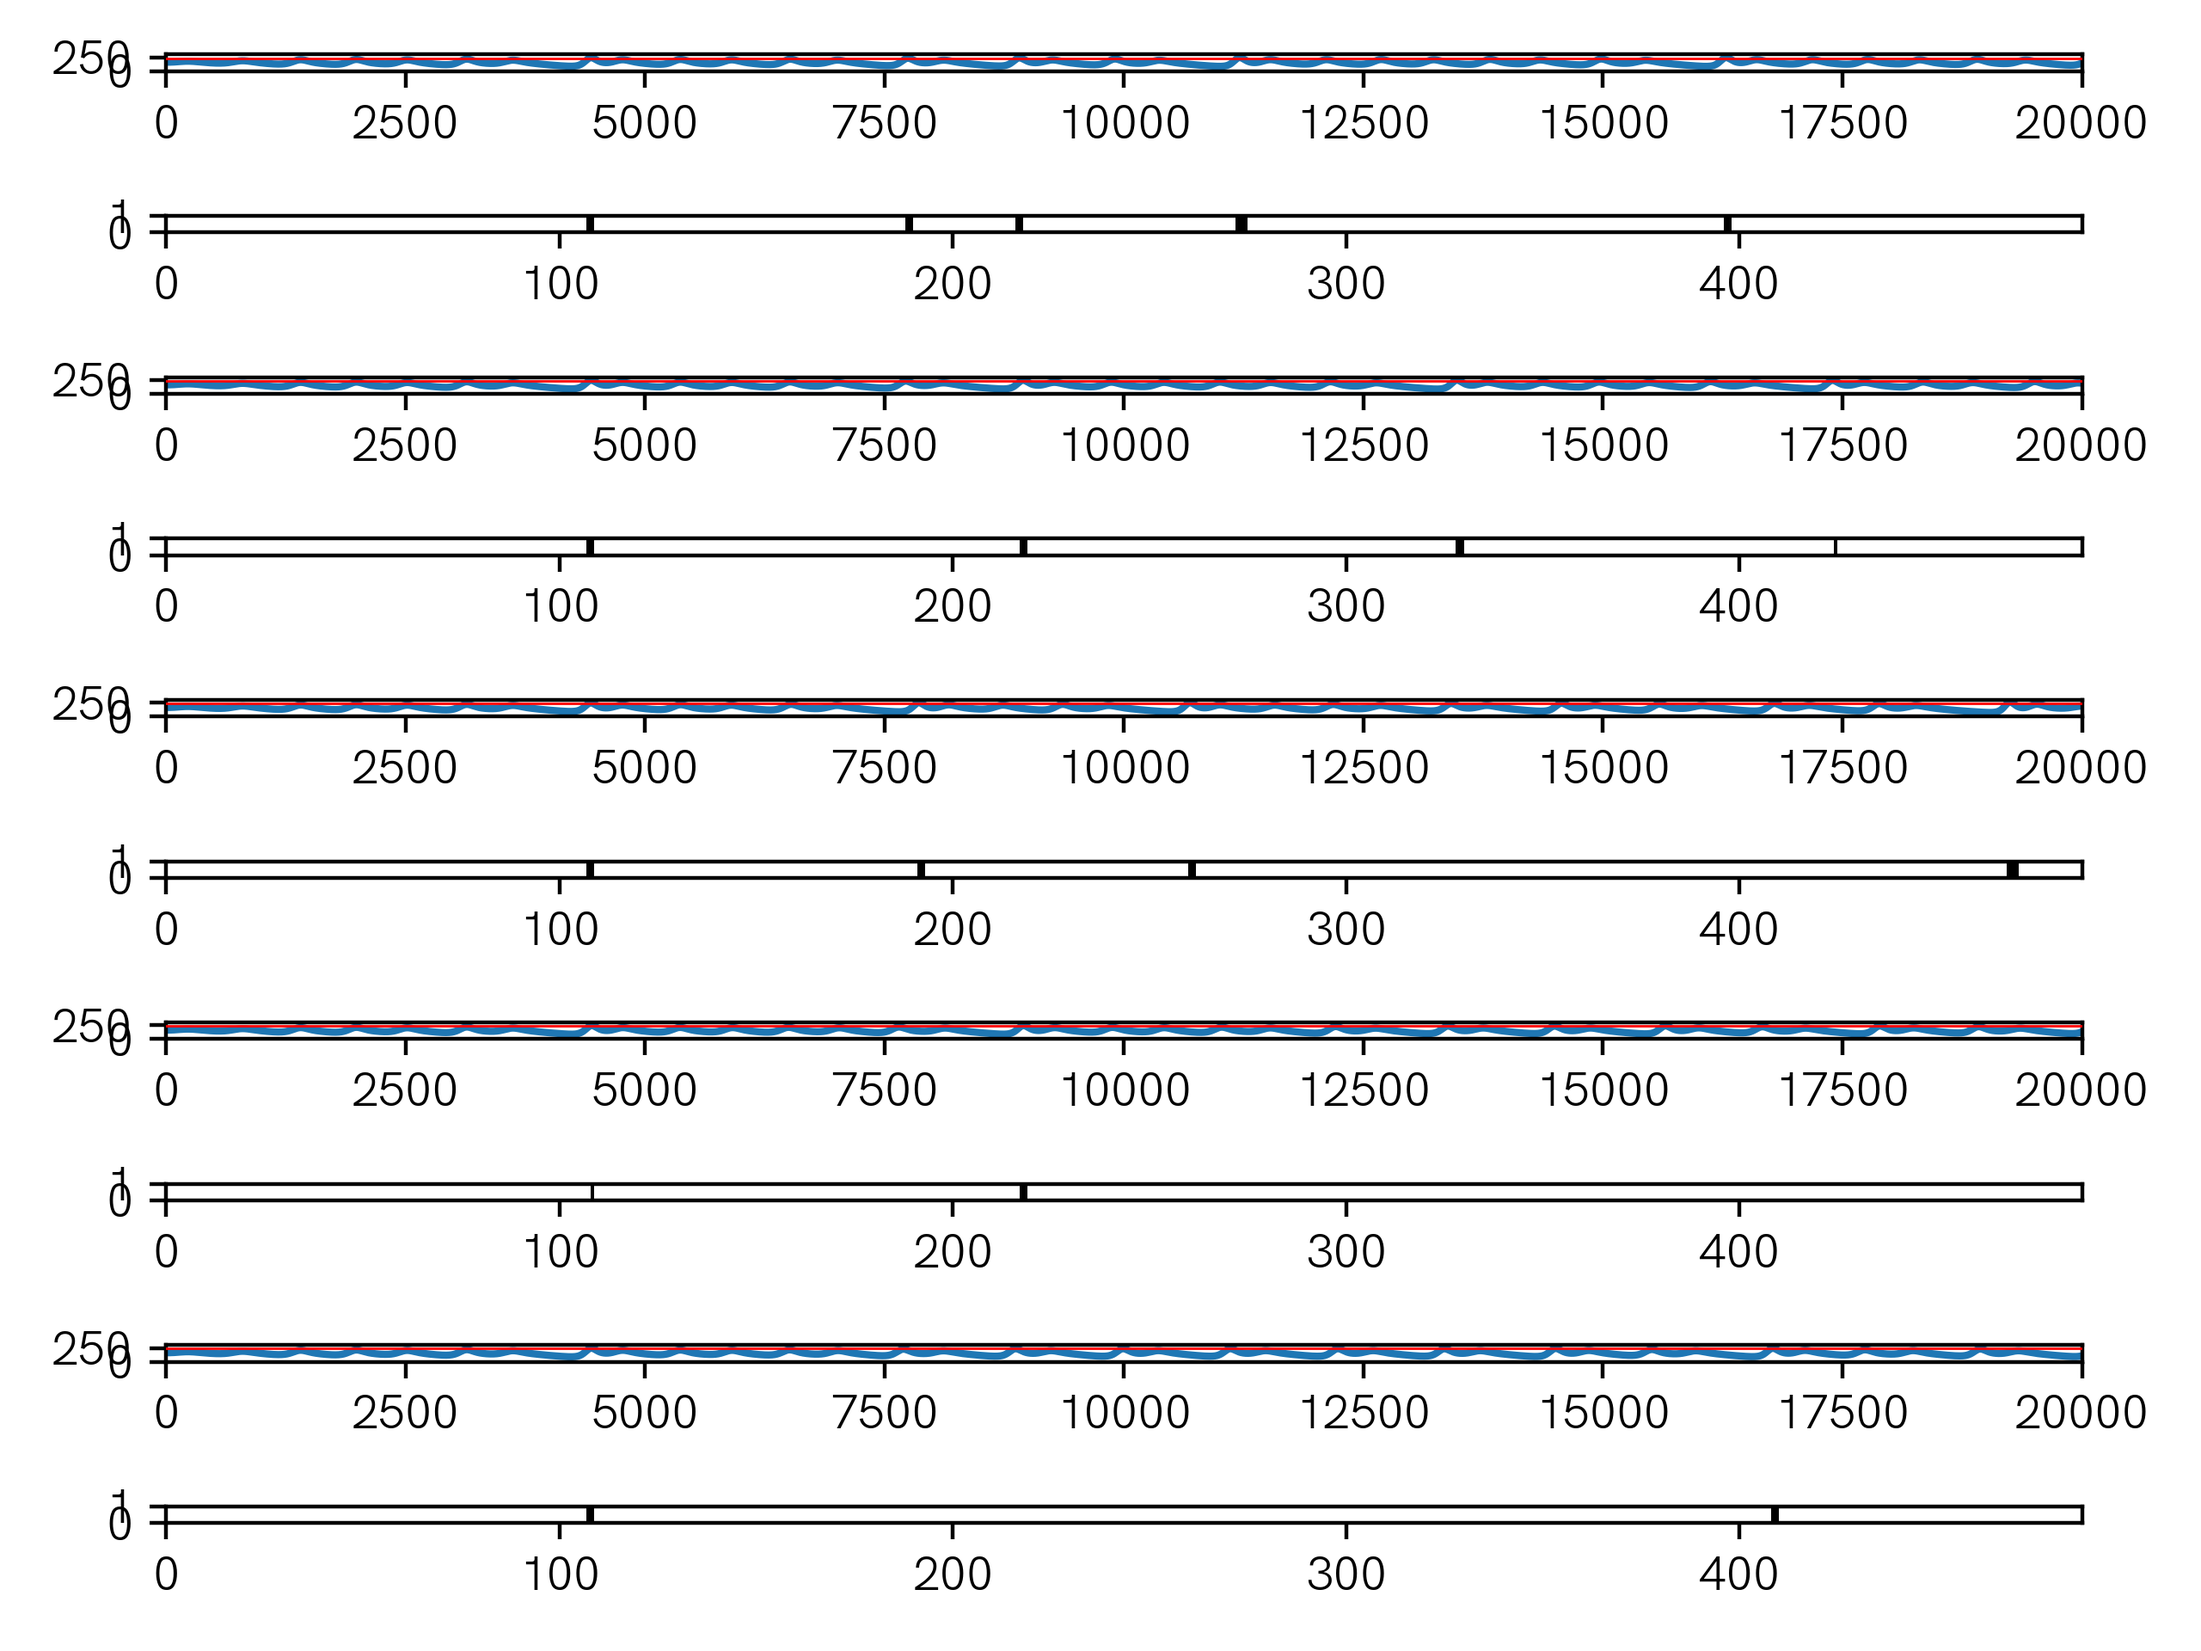
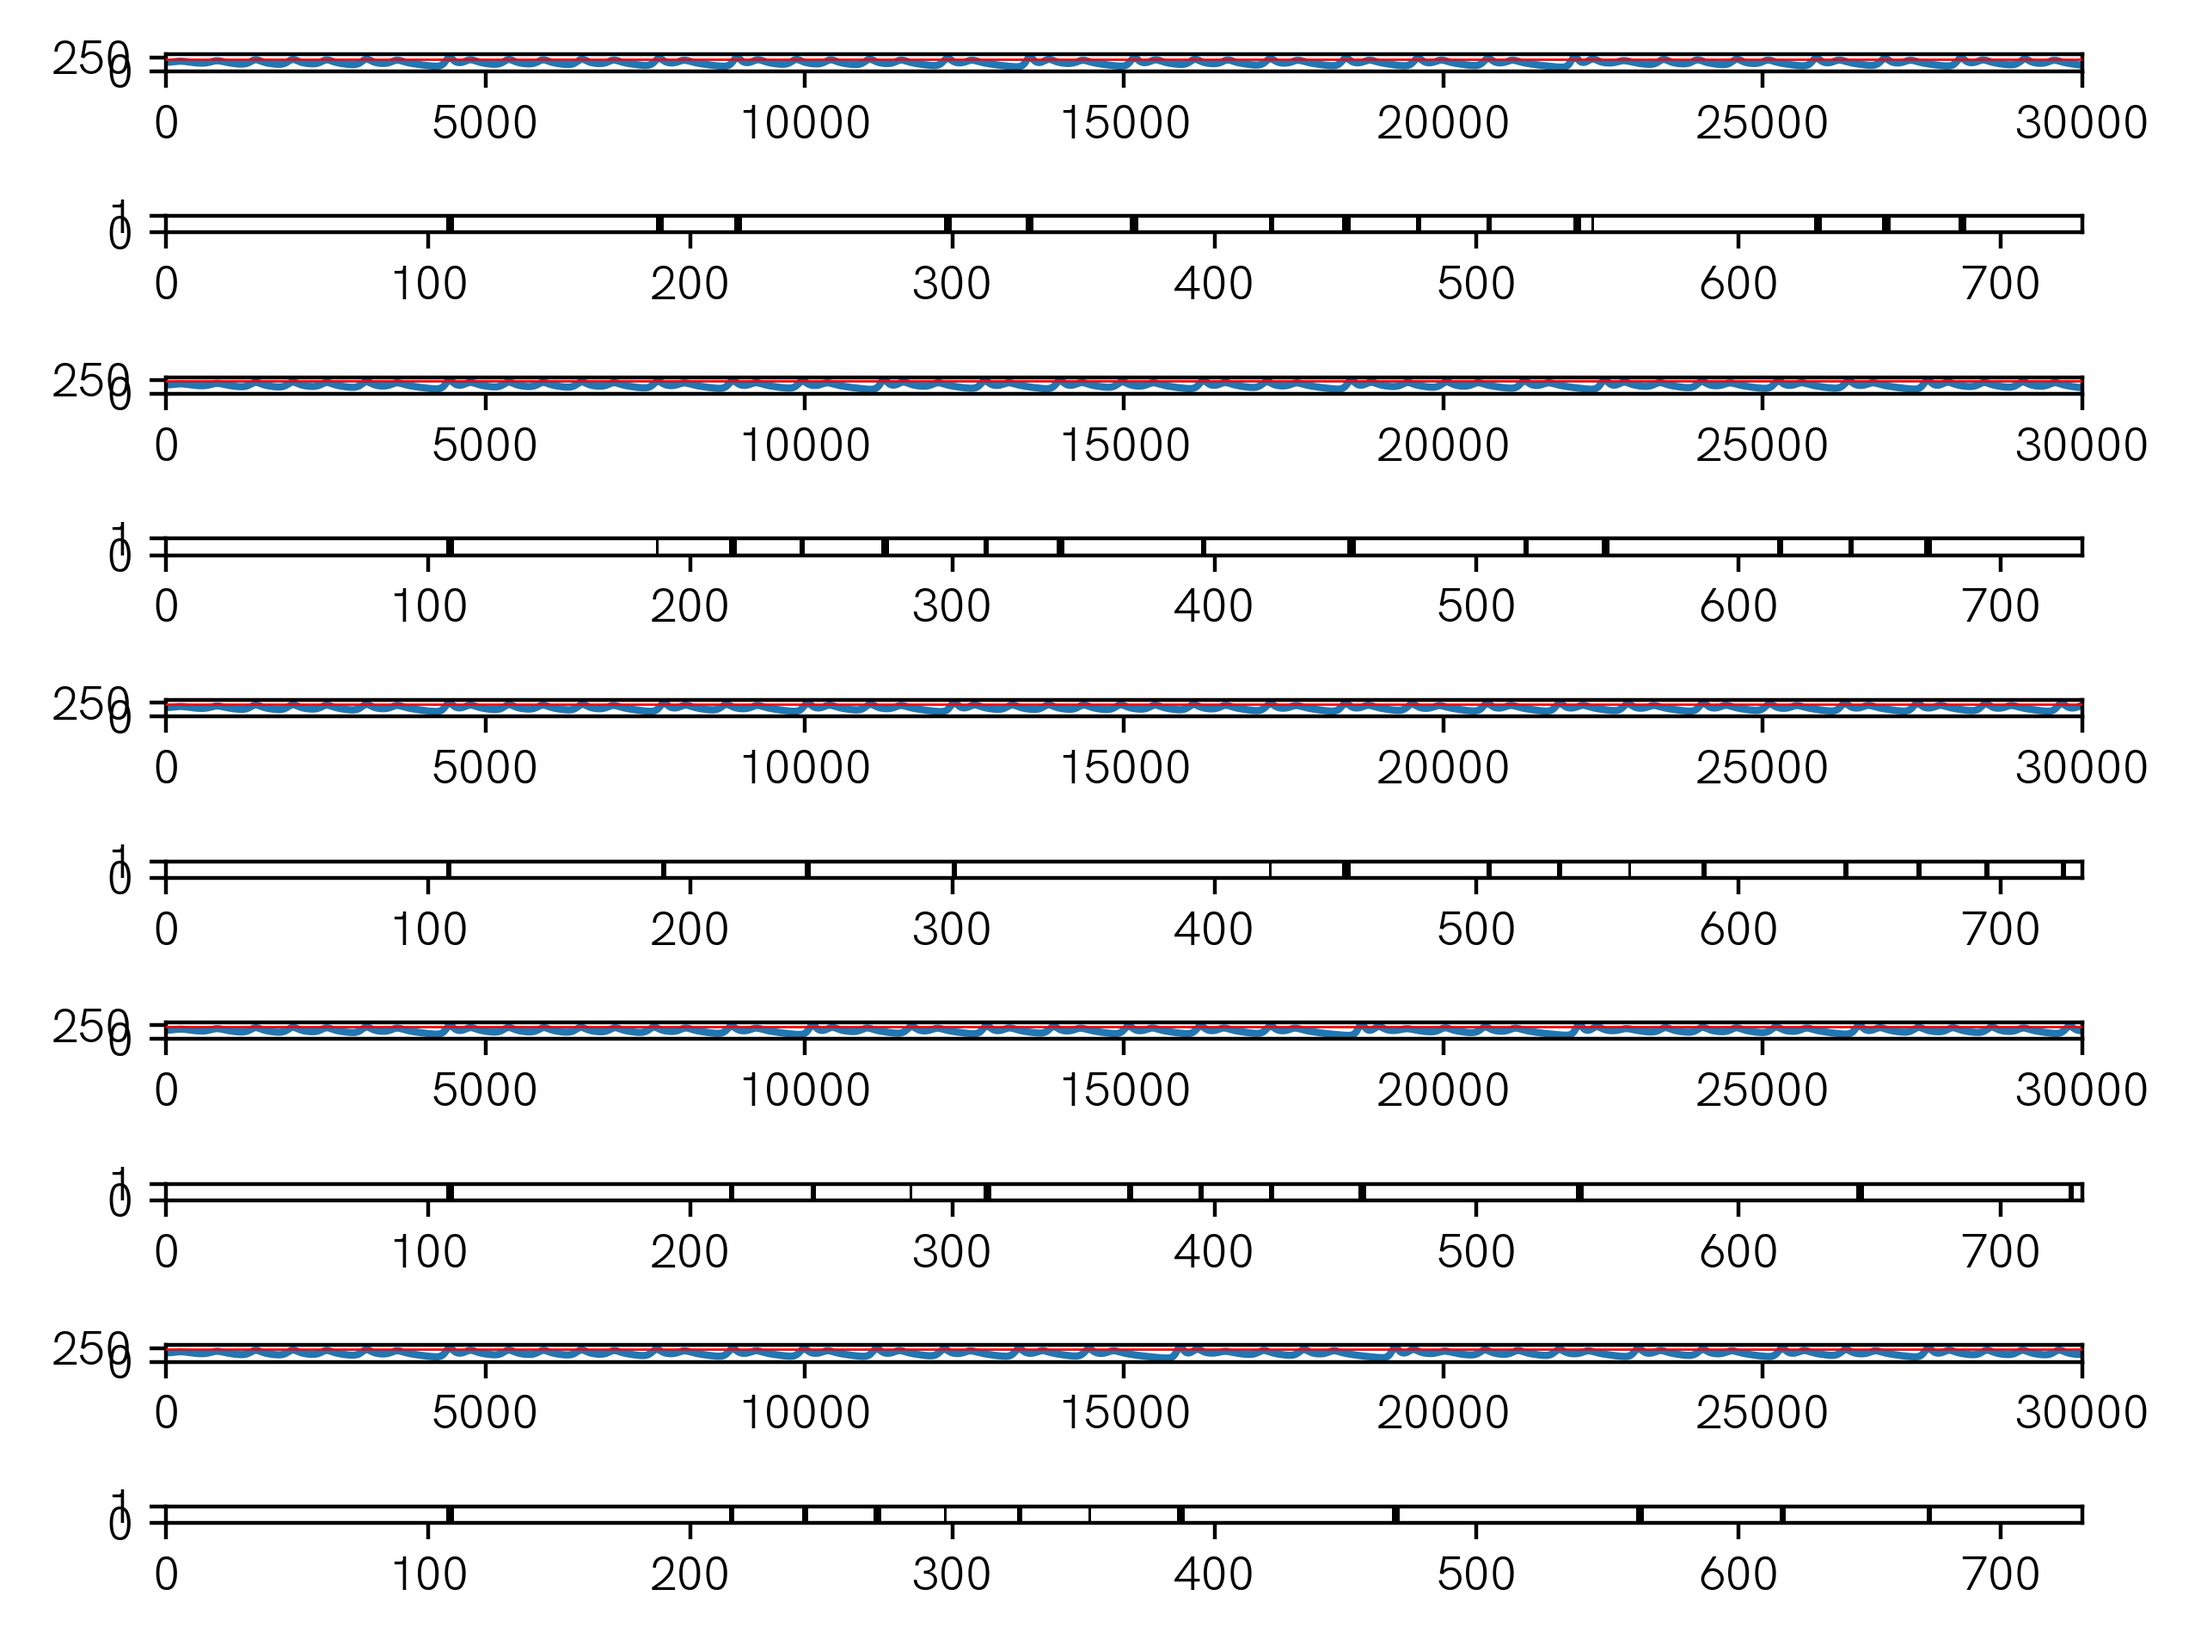
Generated images for talk. Next, verification.

diff --git a/ideal_experiment.py b/ideal_experiment.py
@@ -1,0 +1,321 @@
+"""
+Generation of time series and verification with multiple scores.
+
+Only do in object-based framework. Here, that is verifying
+per observed event (True).
+
+Need to re-generate forecasts initialised from the obs every
+x units of "time". For this, take raw ICs from obs, and
+perturb slightly (like obs error), and run as normal. This
+will generate n forecasts - need to interpolate? Will generate
+a lot of forecasts. Need to interpolate with a small enough
+granularity to capture the general "tornado day" with
+e.g. 4 consequtive time steps. Might need to lower percentile
+to make sure it is captured.
+
+Plot stuff on the way to check it is correct.
+
+Entropy can be computed as fraction of time that is True.
+
+FSS ('wrong way'), eFSS, BSS, info gain.
+"""
+
+
+import os
+import pdb
+
+from scipy.stats import entropy
+from scipy.ndimage import uniform_filter, maximum_filter
+import numpy as N
+import matplotlib as M
+import matplotlib.pyplot as plt
+from numpy import random
+import skimage
+
+# Fix random seed
+random.seed(1)
+
+def lorenz(x,y,z,sigma=10,b=2.667,r=28):
+    xdot = sigma * (y-x)
+    ydot = r*x - y - x*z
+    zdot = x*y - b*z
+    return xdot, ydot, zdot
+
+def generate_timeseries(X0,Y0,Z0,ntotal,r,maxpert=None,
+                            discretise_size=None,icmulti=1):
+    """This is not clipped for spin-up, so
+    first 1000 or so points are "off the attractor".
+    """
+    X = N.empty(ntotal+1)
+    Y = N.empty(ntotal+1)
+    Z = N.empty(ntotal+1)
+
+    # IC perturbations
+    if not maxpert: # For truth
+        pert = 0
+    else:
+        pert = random.uniform(-maxpert,maxpert)
+
+    ICpert = pert * icmulti
+    X[0] = X0 + ICpert
+    Y[0] = Y0 + ICpert
+    Z[0] = Z0 + ICpert
+
+    for n in range(ntotal):
+        xdot, ydot, zdot = lorenz(X[n],Y[n],Z[n],r=r)
+        # Add model error Here
+
+        if not maxpert: # For truth
+            pert = 0
+        else:
+            pert = random.uniform(-maxpert,maxpert)
+
+        X[n+1] = X[n] + (dt*xdot) + pert
+        Y[n+1] = Y[n] + (dt*ydot) + pert
+        Z[n+1] = Z[n] + (dt*zdot) + pert
+
+    print("Generated time series.")
+
+    return Z
+
+def discretise_ts(Z,size):
+    Z_discrete = N.zeros_like(Z).flatten()
+    posts = N.arange(Z_discrete.size-(size+1))[::size]
+    for n, pn in enumerate(posts):
+        if n != posts.size-1:
+            idxn = pn
+            idxx = posts[n+1]
+            Z_discrete[idxn:idxx] = N.max(Z[0,idxn:idxx])
+    print("Discretised time series.")
+    return Z_discrete[N.newaxis,:]#.astype(bool)
+
+
+def identify_features(data,threshold,footprint,dx):
+    """ Need to remember to cut times during spin-up time.
+    """
+    if data.ndim == 1:
+        data = data[:,N.newaxis]
+
+    data_masked = N.where(data >= threshold, data, 0)
+    data_masked_bool = data_masked > 0.0
+
+    obj_labels = skimage.measure.label(data_masked_bool).astype(int)
+    obj_props = skimage.measure.regionprops(obj_labels,data_masked)
+
+    # Now for sifting the objects based on criteria
+    obj_OK = []
+    for prop in obj_props:
+        label = int(prop.label)
+
+        # Object must be bigger than (footprint/dx**ndim)
+        size_OK = False
+
+        if prop.area > footprint:
+            size_OK = True
+
+        if size_OK: # and... etc
+            obj_OK.append(label)
+
+    data_objs = N.zeros_like(data_masked)
+    # This replaces gridpoints within objects with original data
+    for i,ol in enumerate(obj_OK):
+         data_objs = N.where(obj_labels==ol, data_masked, data_objs)
+    #    obj_labels_OK =  N.where(obj_labels==ol, obj_labels, 0)
+#        obj_props_OK = [obj_props[o-1] for o in obj_OK]
+    # pdb.set_trace()
+    return
+
+# temporal granularity of the integration
+dt = 0.0008
+
+# Desired number of integration steps
+ntotal_clipped = 7000
+# Spin up time steps
+spinup_len = 2000
+# Hence, in total:
+ntotal = ntotal_clipped + spinup_len
+
+# ICs
+#X0=0.5
+#Y0=1.5
+#Z0=11.1
+
+X0 = 1
+Y0 = 1
+Z0 = 1
+
+# r = 166.08
+r = 166.096
+# pc = 99
+pc = 98
+nmembers = 25
+
+# GENERATE OBS
+Z = generate_timeseries(X0,Y0,Z0,ntotal,r)
+Z_clipped = Z[spinup_len:]
+
+pc_val_obs = N.percentile(Z_clipped,pc)
+
+f = identify_features(Z_clipped,threshold=pc_val_obs,footprint=3,dx=1)
+
+
+
+
+
+obs_exceed = N.where(Z_clipped > pc_val_obs,True,False)[N.newaxis,:]
+# arr = N.vstack((N.arange(len(obs_exceed)),obs_exceed))
+# obs_exceed = obs_exceed[N.newaxis,:]
+# pdb.set_trace()
+fig,ax = plt.subplots(1)
+ax.pcolormesh(obs_exceed,cmap=M.cm.cubehelix_r)
+fname = "test_exceed.png"
+fpath = fname
+fig.tight_layout()
+fig.savefig(fpath)
+
+# GENERATE GOOD ENSEMBLE forecast
+# Needs to be done every x timesteps to create nultiple forecasts
+# We leave the spinup time in the forecast, but shouldn't eval it
+
+fcsts = N.empty([2,nmembers,ntotal+1])
+
+mp_good = 0.00005
+mp_bad = 0.005
+icmulti = 1
+for nm in range(nmembers):
+    fcsts[0,nm,:] = generate_timeseries(X0,Y0,Z0,ntotal,r,
+                                maxpert=mp_good,icmulti=icmulti)
+    fcsts[1,nm,:] = generate_timeseries(X0,Y0,Z0,ntotal,r,
+                                maxpert=mp_bad,icmulti=icmulti*3)
+
+pc_val = dict()
+
+for e in range(2):
+    pc_val[e] = N.percentile(fcsts[e,:,:],pc)
+    fcst_idxs = N.where(fcsts[e,:,:] > pc_val[e])
+    pass
+
+fig,axes = plt.subplots(nrows=3)
+
+for n in range(3):
+    ax = axes.flat[n]
+    if n==0:
+        ts = Z
+    elif n==1:
+        ts = fcsts[0,0,:]
+    elif n==2:
+        ts = fcsts[1,0,:]
+    ax.plot(ts)
+
+    # Plot percentile line (for only this forecast...)
+    # Need to do new climo percentile over all fcst times
+    pc_val = N.percentile(ts,pc)
+    ax.axhline(pc_val,color='red',zorder=101,lw=0.5)
+    # ax.set_xlim([0,ntotal])
+    ax.set_ylim([0,300])
+
+fname = "raw_ts.png"
+fpath = fname
+fig.tight_layout()
+fig.savefig(fpath)
+
+fcst_exceed = N.zeros_like(fcsts)
+
+pc_val_fcst0 = N.percentile(fcsts[0,:,:],pc)
+pc_val_fcst1 = N.percentile(fcsts[1,:,:],pc)
+fcst_exceed[0,:,:] = N.where(fcsts[0,:,:] > pc_val_fcst0,
+                        True,False)[N.newaxis,:]
+fcst_exceed[1,:,:] = N.where(fcsts[1,:,:] > pc_val_fcst1,
+                        True,False)[N.newaxis,:]
+
+# idx x bool
+
+
+#fcst_exceed0 = fcsts[0,fcst_exceed0_idx]
+#fcst_exceed1 = fcsts[0,fcst_exceed1_idx]
+
+# arr = N.vstack((N.arange(len(obs_exceed)),obs_exceed))
+# obs_exceed = obs_exceed[N.newaxis,:]
+# pdb.set_trace()
+fig,axes = plt.subplots(3)
+axes.flat[0].pcolormesh(obs_exceed,cmap=M.cm.cubehelix_r)
+axes.flat[1].pcolormesh(fcst_exceed[:,0,:],cmap=M.cm.cubehelix_r)
+axes.flat[2].pcolormesh(fcst_exceed[:,1,:],cmap=M.cm.cubehelix_r)
+
+fname = "test_exceed_firstmembers.png"
+fpath = fname
+fig.tight_layout()
+fig.savefig(fpath)
+
+##################
+members_count = N.arange(5)
+ws = 150
+
+for ne, ens in enumerate(("good","bad")):
+    fig,axes = plt.subplots(nrows=members_count.size+2,figsize=(16,12))
+
+    ax = axes.flat[0]
+    ax.pcolormesh(obs_exceed,cmap=M.cm.Reds)
+    ax.axes.get_xaxis().set_visible(False)
+    ax.axes.get_yaxis().set_visible(False)
+
+    max_fcst_ts = N.zeros([2,nmembers,ntotal_clipped])
+
+
+    # Discretise ALL forecasts
+    for nmem in range(nmembers):
+    #for nmem in members_count:
+        #max_fcst_ts[ne:ne+1,nmem,:] = maximum_filter(fcst_exceed[ne:ne+1,
+        #                        nmem,spinup_len:-1],
+        #                        size=ws,mode='constant')
+        max_fcst_ts[ne:ne+1,nmem,:] = discretise_ts(fcst_exceed[ne:ne+1,
+                                    nmem,spinup_len:-1],size=ws)
+    # Plot probs
+    probs_raw = N.sum(max_fcst_ts,axis=1)/nmembers
+
+    # smooth them
+    # probs = uniform_filter(probs_raw,size=100)
+    probs = maximum_filter(probs_raw[ne:ne+1,:],size=ws,mode='constant')
+    ax = axes.flat[1]
+    #ax2 = ax.twinx()
+    ax.pcolormesh(probs,cmap=M.cm.Blues,zorder=50)
+    #ax2.plot(N.arange(ntotal_clipped),probs[0,:],color='black',lw=1,zorder=100)
+    ax.axes.get_xaxis().set_visible(False)
+    ax.axes.get_yaxis().set_visible(False)
+    #ax2.axes.get_xaxis().set_visible(False)
+    #ax2.axes.get_yaxis().set_visible(False)
+
+    # ADD another axis here with "matched probs", where each event is
+    # matched, if possible, within a tolerance.
+
+    # for every True in the obs, locate the idx in the fcst field
+    # check for a True in each fcst member within discretise size * 5
+    # to simulate
+
+    axs = axes.flat[2:]
+    nnn = 0
+
+    for nmem, nax in zip(members_count,axs):
+        ax = nax
+        ax.axes.get_xaxis().set_visible(False)
+        ax.axes.get_yaxis().set_visible(False)
+
+        # newarray = N.where(fcsts[nmem,nnn,:] > pc_val)
+        #max_fcst_ts =  maximum_filter(fcst_exceed[ne:ne+1,nmem,spinup_len:],
+        #                        size=100,mode='constant')
+
+        # ax.pcolormesh(fcst_exceed[ne:ne+1,nmem,spinup_len:],
+        ax.pcolormesh(max_fcst_ts[ne:ne+1,nmem,:],
+                cmap=M.cm.cubehelix_r)
+        print("Plotted axis",nmem)
+
+    fname = f"test_exceed_{ens}.png"
+    fpath = fname
+    fig.tight_layout()
+    fig.savefig(fpath)
+
+
+# Now evaluate each time period's probs. with a temporal tolerance
+
+# VERIFICATION
+# Only verify post-spinup period.

diff --git a/lorenz_intermittency.py b/lorenz_intermittency.py
@@ -32,14 +32,18 @@ def lorenz(x,y,z,sigma=10,b=2.667,r=28):
     zdot = x*y - b*z
     return xdot, ydot, zdot
 
+# temporal granularity of the integration
 dt = 0.0005
-ntotal_raw=20000
+#ntotal_raw=20000
+ntotal_raw=30000
 #ntotal=101000
 X0=0.5
 Y0=1.5
 Z0=11.1
-r = 166.08
-pc = 99
+# r = 166.08
+r = 166.09
+# pc = 99
+pc = 97
 nmembers = 50
 spinup_len = 1000
 ntotal = ntotal_raw + spinup_len
@@ -116,8 +120,7 @@ Need 50-member ensemble to make sure the pdf is well captured
 """
 z_ts = N.zeros([ntotal-(spinup_len-1),nmembers])
 
-# Fix random seed
-random.seed(1)
+
 
 for nmem in range(nmembers):
     X = N.empty(ntotal+1)
@@ -189,11 +192,13 @@ fig.savefig(fpath)
 
 
 # Plot JUST FAKE NADER DAYS
-nmems = 7
-fig,axes = plt.subplots(nrows=nmems+1)
+nmems = 9
+fig,axes = plt.subplots(nrows=nmems+1,figsize=(15,12))
 
 ax = axes.flat[0]
-ax.pcolormesh(newarray,cmap=M.cm.cubehelix_r)
+ax.pcolormesh(newarray,cmap=M.cm.Reds)
+ax.axes.get_xaxis().set_visible(False)
+ax.axes.get_yaxis().set_visible(False)
 
 members_plot = N.arange(nmems)
 axs = axes.flat[1:]
@@ -202,6 +207,8 @@ for nmem, nax in zip(members_plot,axs):
     ax = nax
     pc_y = N.percentile(Z,pc)
     # ax.set_xlim([0,ntotal-spinup_len])
+    ax.axes.get_xaxis().set_visible(False)
+    ax.axes.get_yaxis().set_visible(False)
     # ax.set_ylim([0,300])
 
     newarray = N.zeros([len_array])
@@ -215,7 +222,7 @@ for nmem, nax in zip(members_plot,axs):
     ax.pcolormesh(newarray,cmap=M.cm.cubehelix_r)
     print("Plotted axis",nmem)
 
-fname = "example_ensemble_discrete.png"
+fname = "firstgroup_ensemble_discrete.png"
 fpath = fname
 fig.tight_layout()
 fig.savefig(fpath)
